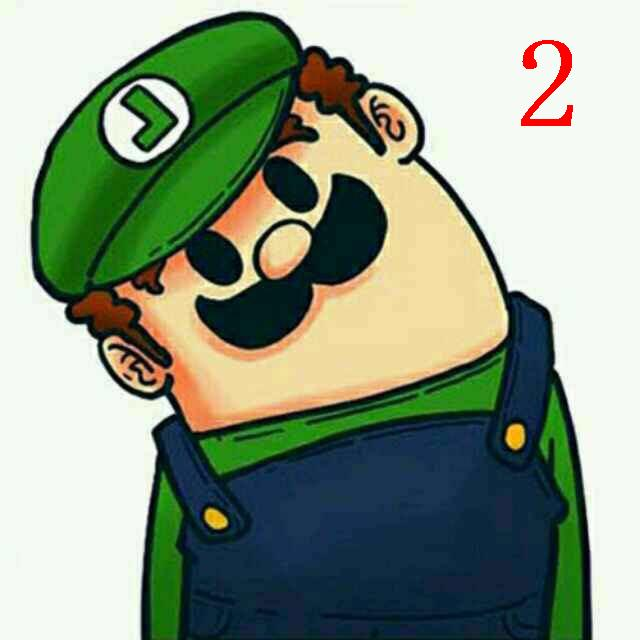
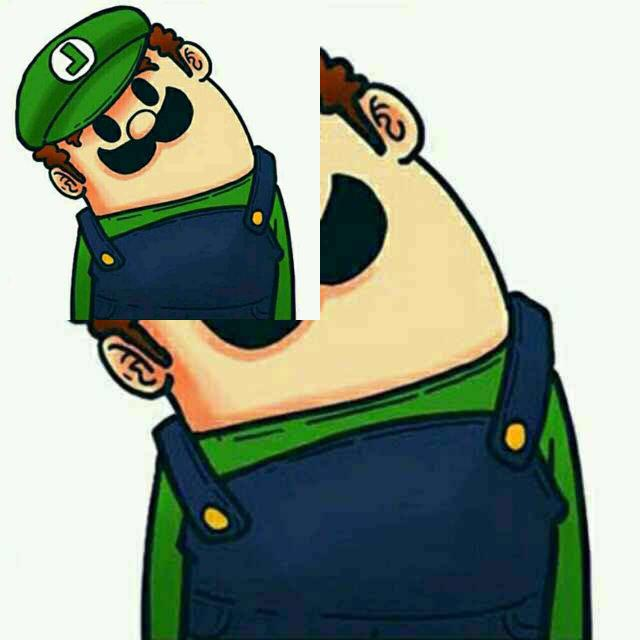
manage code

Changed region(s): [[0.0, 0.0, 0.5, 0.5], [0.8125, 0.125, 0.9062, 0.2188], [0.8125, 0.0625, 0.9062, 0.125]]

diff --git a/src/main/java/com/interview/DrawImage.java b/src/main/java/com/interview/DrawImage.java
@@ -35,6 +35,39 @@ public class DrawImage {
         }
     }
 
+    /**
+     * 生成iphone5的尺寸
+     * @param srcImagePath
+     * @param word
+     * @param formatName
+     * @param targetPath
+     * @throws IOException
+     */
+    public void generateIphone5Image(String srcImagePath, String word, String formatName, String targetPath) throws IOException {
+        FileOutputStream fos=null;
+        try {
+            BufferedImage image = ImageIO.read(new File(srcImagePath));
+            drawImage(image);
+
+            fos=new FileOutputStream(targetPath);
+            ImageIO.write(image, formatName, fos);
+        } catch (Exception e) {
+            e.printStackTrace();
+        }finally{
+            if(fos!=null){
+                fos.close();
+            }
+        }
+    }
+
+    private void drawImage(BufferedImage image) {
+         //创建java2D对象
+        Graphics2D g2d=image.createGraphics();
+        //用源图像填充背景
+        g2d.drawImage(image, 0, 0, image.getWidth()/2, image.getHeight()/2, null);
+        g2d.dispose();
+    }
+
     private void drawImage(String num, BufferedImage image) {
         //创建java2D对象
         Graphics2D g2d=image.createGraphics();

diff --git a/src/test/java/com/interview/DrawImageTest.java b/src/test/java/com/interview/DrawImageTest.java
@@ -21,9 +21,15 @@ public class DrawImageTest {
     }
 
     @Test
-    public void drawImageTest() throws IOException {
+    public void drawWordImageTest() throws IOException {
         drawImage.drawWordInImage(imagePrefix+"icon.jpg","2","jpg",imagePrefix+"icon_new.jpg");
         drawImage.drawWordInImage(imagePrefix+"icon1.jpg","2","jpg",imagePrefix+"icon1_new.jpg");
+    }
+
+    @Test
+    public void drawIphone5ImageTest() throws IOException {
+        drawImage.generateIphone5Image(imagePrefix+"icon.jpg","2","jpg",imagePrefix+"icon_new.jpg");
+        drawImage.generateIphone5Image(imagePrefix+"icon1.jpg","2","jpg",imagePrefix+"icon1_new.jpg");
     }
 
 }

diff --git a/src/test/java/com/interview/CouponTest.java b/src/test/java/com/interview/CouponTest.java
@@ -8,6 +8,7 @@ import static org.junit.Assert.assertEquals;
 
 /**
  * 第 0001 题：做为 Apple Store App 独立开发者，你要搞限时促销，为你的应用生成激活码（或者优惠券）
+ * 第 0003 题：将 0001 题生成的 200 个激活码（或者优惠券）保存到 Redis 非关系型数据库中。
  */
 public class CouponTest {
 

diff --git a/src/test/java/com/interview/words/WordsTest.java b/src/test/java/com/interview/words/WordsTest.java
@@ -7,6 +7,9 @@ import java.util.Map;
 
 import static org.junit.Assert.*;
 
+/**
+ * 第 0004 题：任一个英文的纯文本文件，统计其中的单词出现的个数。
+ */
 public class WordsTest {
 
     private Words words = new Words();
